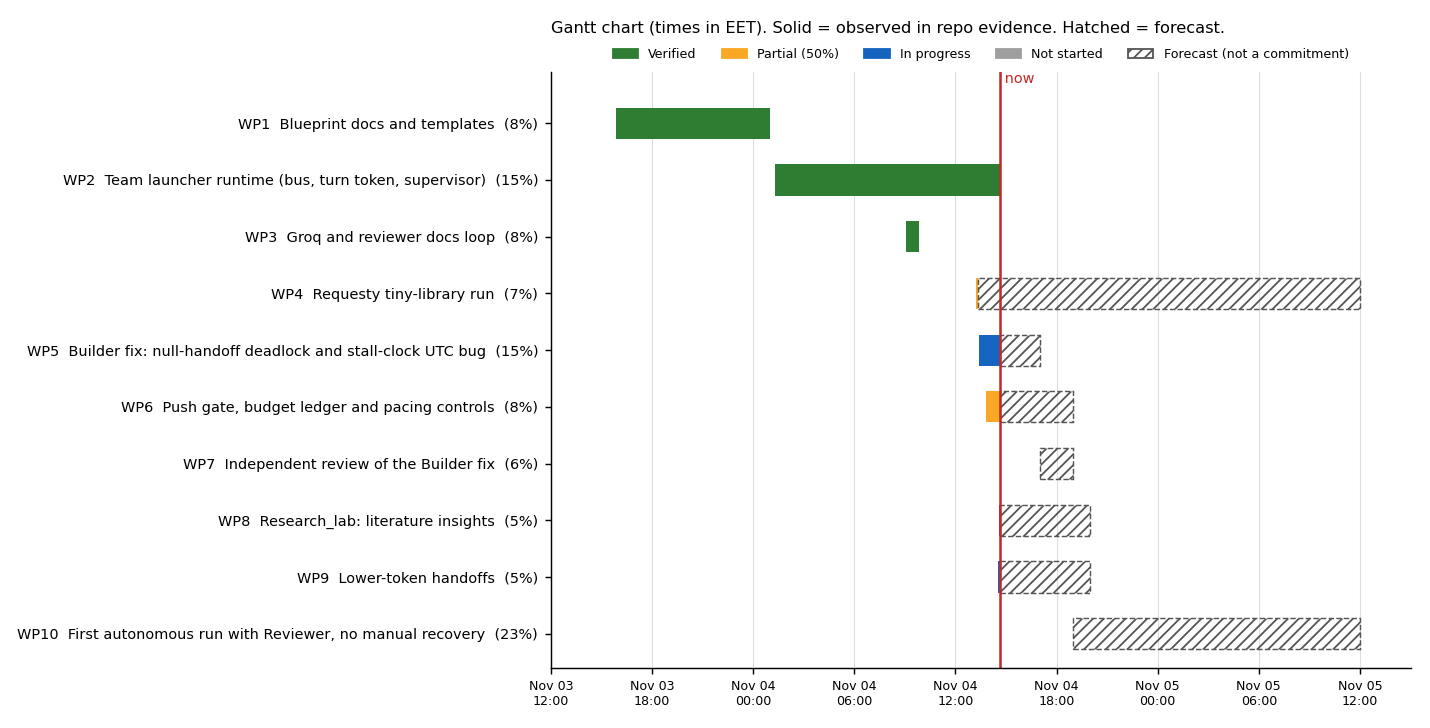
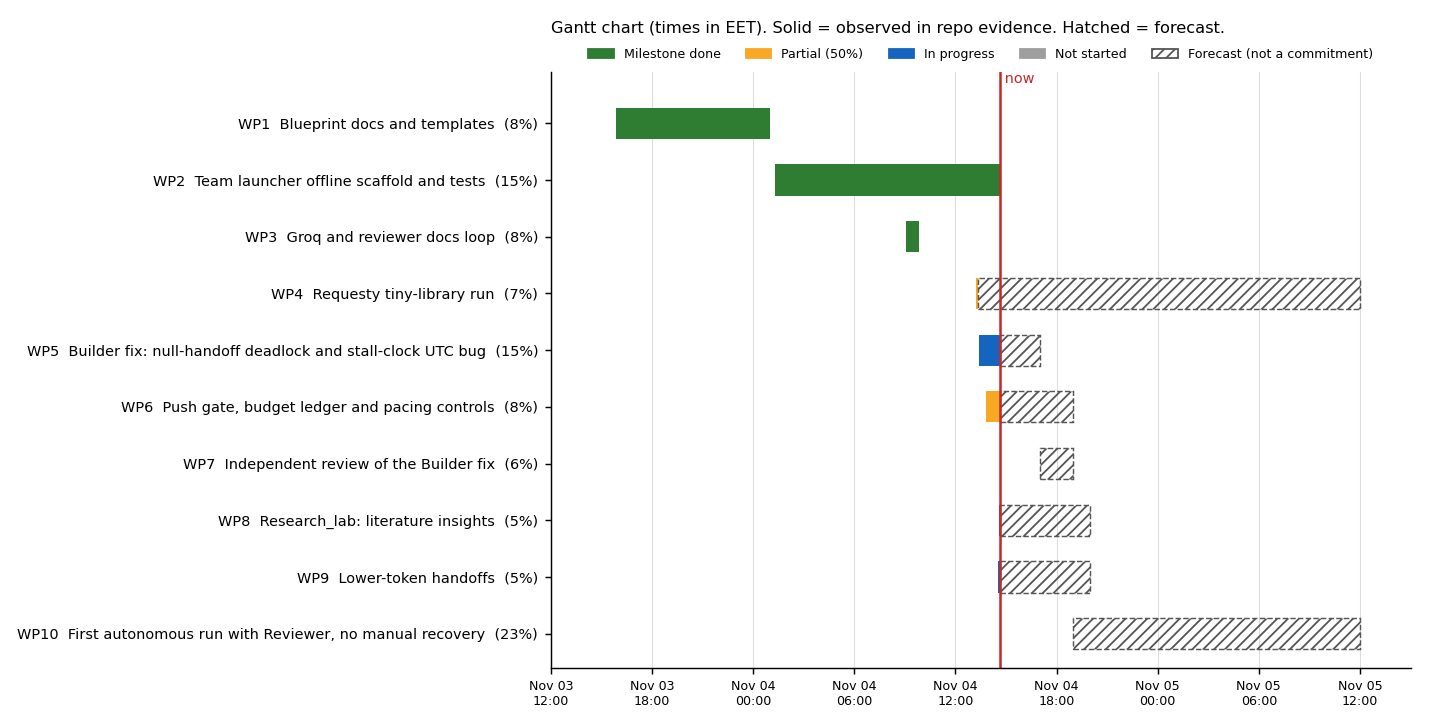
README progress: relabel as weighted milestone progress, narrow runtime credit label

Changed region(s): [[0.4, 0.0604, 0.9538, 0.0907], [0.0308, 0.2418, 0.3692, 0.272]]

diff --git a/docs/progress/render_progress.py b/docs/progress/render_progress.py
@@ -16,7 +16,7 @@ P = d["packages"]; asof = D.fromisoformat(d["as_of"][:16])
 t = lambda s: D.fromisoformat(s[:16])
 CRED = {"verified": 1.0, "partial": 0.5}
 COL = {"verified": "#2e7d32", "partial": "#f9a825", "in_progress": "#1565c0", "not_started": "#9e9e9e"}
-LAB = {"verified": "Verified", "partial": "Partial (50%)", "in_progress": "In progress", "not_started": "Not started"}
+LAB = {"verified": "Milestone done", "partial": "Partial (50%)", "in_progress": "In progress", "not_started": "Not started"}
 plt.rcParams["svg.fonttype"] = "none"; plt.rcParams["font.family"] = "DejaVu Sans"
 x0, x1 = D(2026,11,3,12), D(2026,11,5,15)
 
@@ -62,7 +62,7 @@ rem.sort(); fx = [asof]; fy = [actual]
 for tm, w in rem:
     fx += [tm, tm]; fy += [c2, c2+w]; c2 += w
 fig, ax = plt.subplots(figsize=(9, 4.6))
-ax.plot(ax_, ay_, color=COL["verified"], lw=2.2, label=f"Actual verified progress: {actual:.1f}%")
+ax.plot(ax_, ay_, color=COL["verified"], lw=2.2, label=f"Actual weighted milestone progress, incl. partial credit: {actual:.1f}%")
 ax.plot(fx, fy, color="#555", lw=1.8, ls="--", label="Forecast baseline set "+asof.strftime("%b %d %H:%M")+" (a guess)")
 ax.axvline(md.date2num(asof), color="#c62828", lw=1.2); ax.scatter([asof],[actual], color="#c62828", zorder=5)
 ax.set_xlim(md.date2num(x0), md.date2num(x1)); ax.set_ylim(0, 105)

diff --git a/docs/progress/README.md b/docs/progress/README.md
@@ -5,7 +5,7 @@ Charts at the top of the main README come from `progress.json` and `render_progr
 ## How progress is measured
 
 - The project is split into 10 work packages with fixed weights that add to 100%.
-- A package counts 100% only when it is **verified**: tests pass or an independent review passed. Commits alone do not count.
+- This is weighted milestone progress, not independently verified completion. A package counts 100% only when its milestone is done: tests pass or an independent review passed. Commits alone do not count.
 - A package that ran but has a known gap counts 50% (partial). In progress and not started count 0%.
 - Credit is dated when the evidence was observed, so the curve does not claim earlier progress than the repo shows.
 - Weights are a judgment call by the maintainers of this chart. They are not effort estimates.
@@ -16,4 +16,6 @@ No plan or schedule existed before 2026-11-04 14:40 EET, so there is no planned-
 
 ## Updating
 
-Edit `progress.json` (status, `credit_at`, `forecast_end`, evidence), then run `python3 docs/progress/render_progress.py` (needs matplotlib) and commit the regenerated files. Do not mark a package verified without linking the passing test run or review.
+Edit `progress.json` (status, `credit_at`, `forecast_end`, evidence), then run `python3 docs/progress/render_progress.py` (needs matplotlib) and commit the regenerated files. Do not mark a package done without linking the passing test run or review.
+
+Owner: the maintainer of this repo's progress chart (currently the Telkomsel Instinct). Update on meaningful milestone changes, not per commit.

diff --git a/README.md b/README.md
@@ -2,13 +2,13 @@
 
 ## Project progress
 
-*As of 2026-11-04 14:40 EET. Verified progress is **38.5%** of weighted scope. No autonomous end-to-end run has passed yet.*
+*As of 2026-11-04 14:40 EET. Weighted milestone progress is **38.5%**, including 50% credit for partial work. This is not independently verified completion. No autonomous end-to-end run has passed yet.*
 
 ![Gantt chart](docs/progress/gantt.png)
 
 ![Progress S-curve](docs/progress/s-curve.png)
 
-Only verified outcomes count as progress. The dashed lines are forecasts, not commitments, and no earlier plan existed to compare against. See [how progress is measured](docs/progress/README.md).
+Only milestones backed by passing tests or an independent review count. The dashed lines are forecasts, not commitments, and no earlier plan existed to compare against. See [how progress is measured](docs/progress/README.md).
 
 *Repository: `coolkowkank/Multiple-Human-Concept-Owner` - a reusable blueprint for human-led AI project teams: roles, coordination, handoffs, independent review, and project setup.*
 
